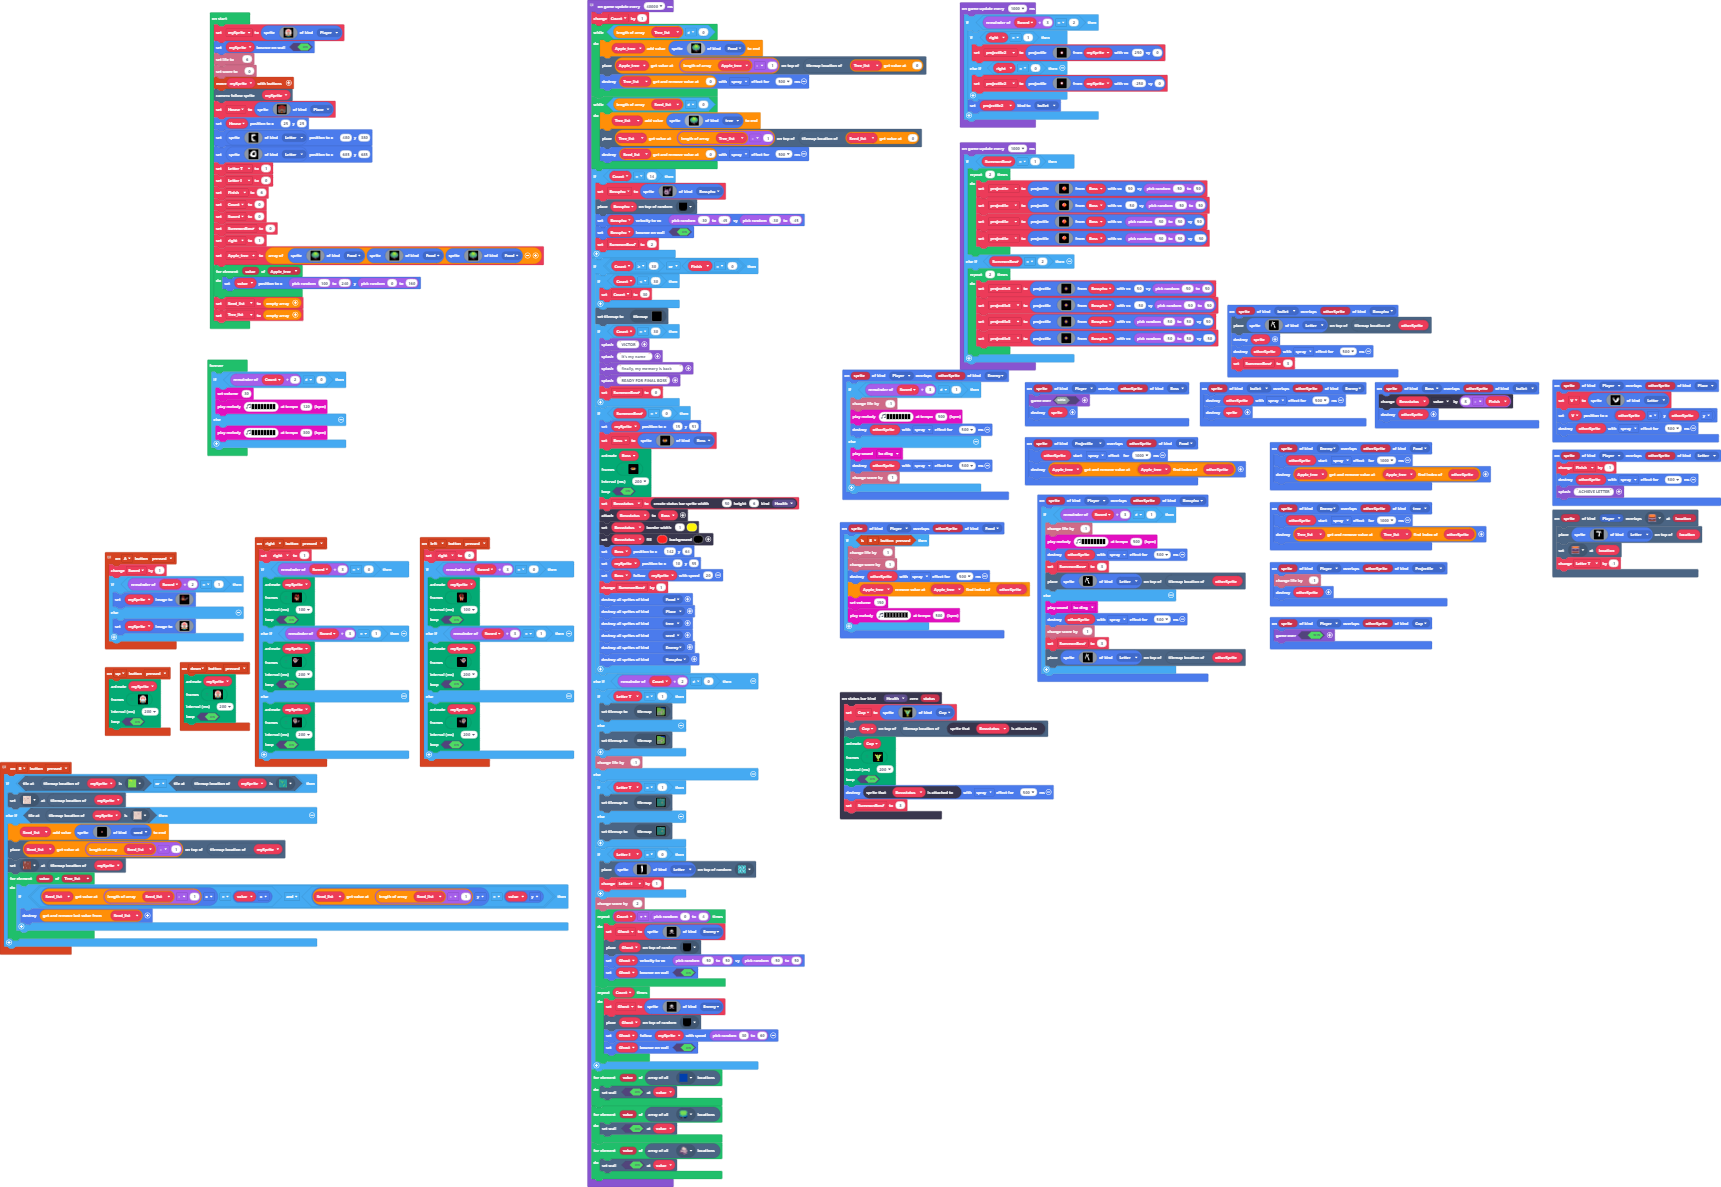
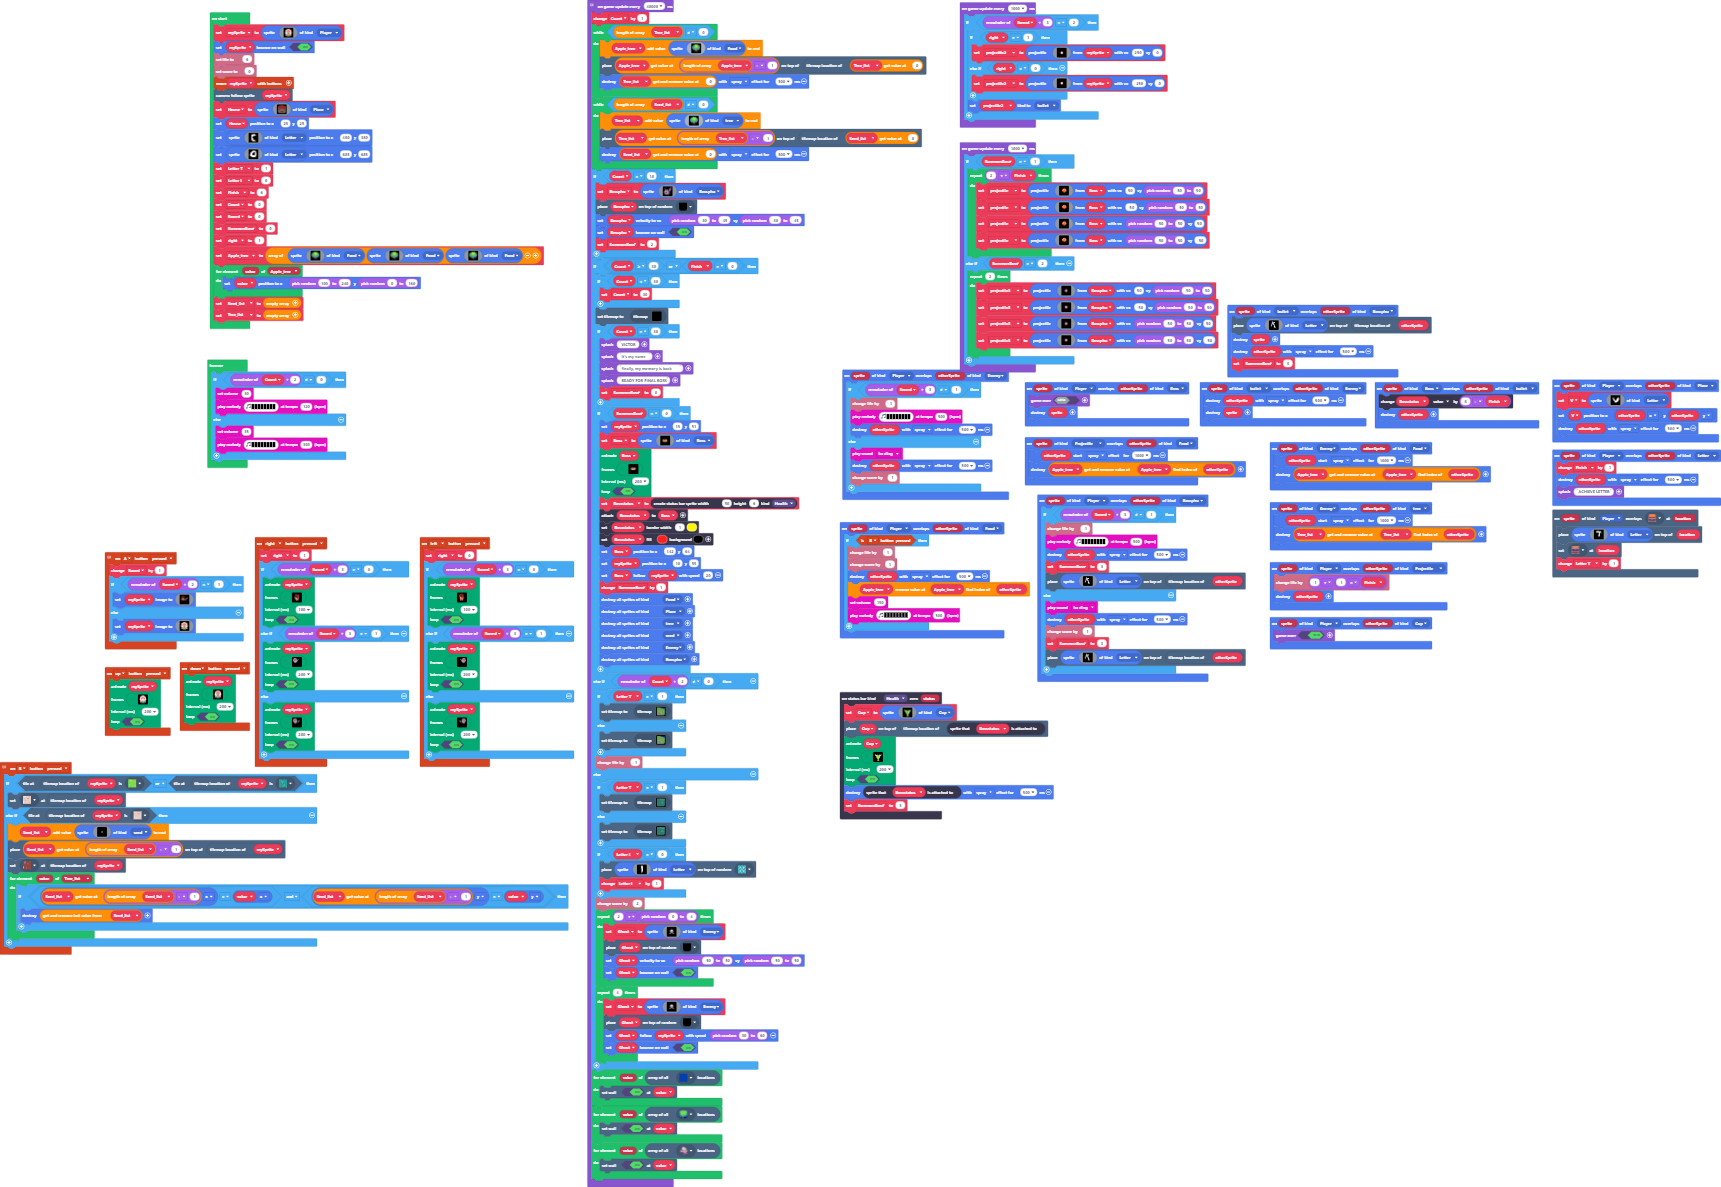
Boss, enemy damge, HP

diff --git a/main.ts b/main.ts
@@ -312,7 +312,7 @@ controller.right.onEvent(ControllerButtonEvent.Pressed, function () {
     }
 })
 sprites.onOverlap(SpriteKind.Player, SpriteKind.Projectile, function (sprite, otherSprite) {
-    info.changeLifeBy(-1)
+    info.changeLifeBy(-1 + -1 * Finish)
     otherSprite.destroy()
 })
 sprites.onOverlap(SpriteKind.Boss, SpriteKind.bullet, function (sprite, otherSprite) {
@@ -595,7 +595,7 @@ game.onUpdateInterval(1000, function () {
 })
 game.onUpdateInterval(1000, function () {
     if (SummonBoss == 1) {
-        for (let index = 0; index < 2; index++) {
+        for (let index = 0; index < 2 + Finish; index++) {
             projectile = sprites.createProjectileFromSprite(assets.image`Power`, Boss, 50, randint(-50, 50))
             projectile = sprites.createProjectileFromSprite(assets.image`Power`, Boss, -50, randint(-50, 50))
             projectile = sprites.createProjectileFromSprite(assets.image`Power`, Boss, randint(-50, 50), 50)
@@ -615,6 +615,7 @@ forever(function () {
         music.setVolume(30)
         music.playMelody("C5 B G E F D C D ", 120)
     } else {
+        music.setVolume(35)
         music.playMelody("C5 B C5 A B G A F ", 300)
     }
 })
@@ -698,7 +699,7 @@ game.onUpdateInterval(40000, function () {
         tiles.placeOnTile(Tree_list[Tree_list.length - 1], Seed_list[0].tilemapLocation())
         Seed_list.removeAt(0).destroy(effects.spray, 500)
     }
-    if (Count == 14) {
+    if (Count == 10) {
         Bossphu = sprites.create(assets.image`myImage`, SpriteKind.Bossphu)
         tiles.placeOnRandomTile(Bossphu, sprites.builtin.forestTiles14)
         Bossphu.setVelocity(randint(-30, -45), randint(-30, -45))
@@ -759,7 +760,7 @@ game.onUpdateInterval(40000, function () {
             Letter_I += 1
         }
         info.changeScoreBy(2)
-        for (let index = 0; index < Count + randint(0, 4); index++) {
+        for (let index = 0; index < 2 + randint(0, 4); index++) {
             Ghost = sprites.create(img`
                 ........................
                 ........................
@@ -790,7 +791,7 @@ game.onUpdateInterval(40000, function () {
             Ghost.setVelocity(randint(-50, 50), randint(-50, 50))
             Ghost.setBounceOnWall(true)
         }
-        for (let index = 0; index < Count; index++) {
+        for (let index = 0; index < 4; index++) {
             Ghost = sprites.create(img`
                 ........................
                 ........................
